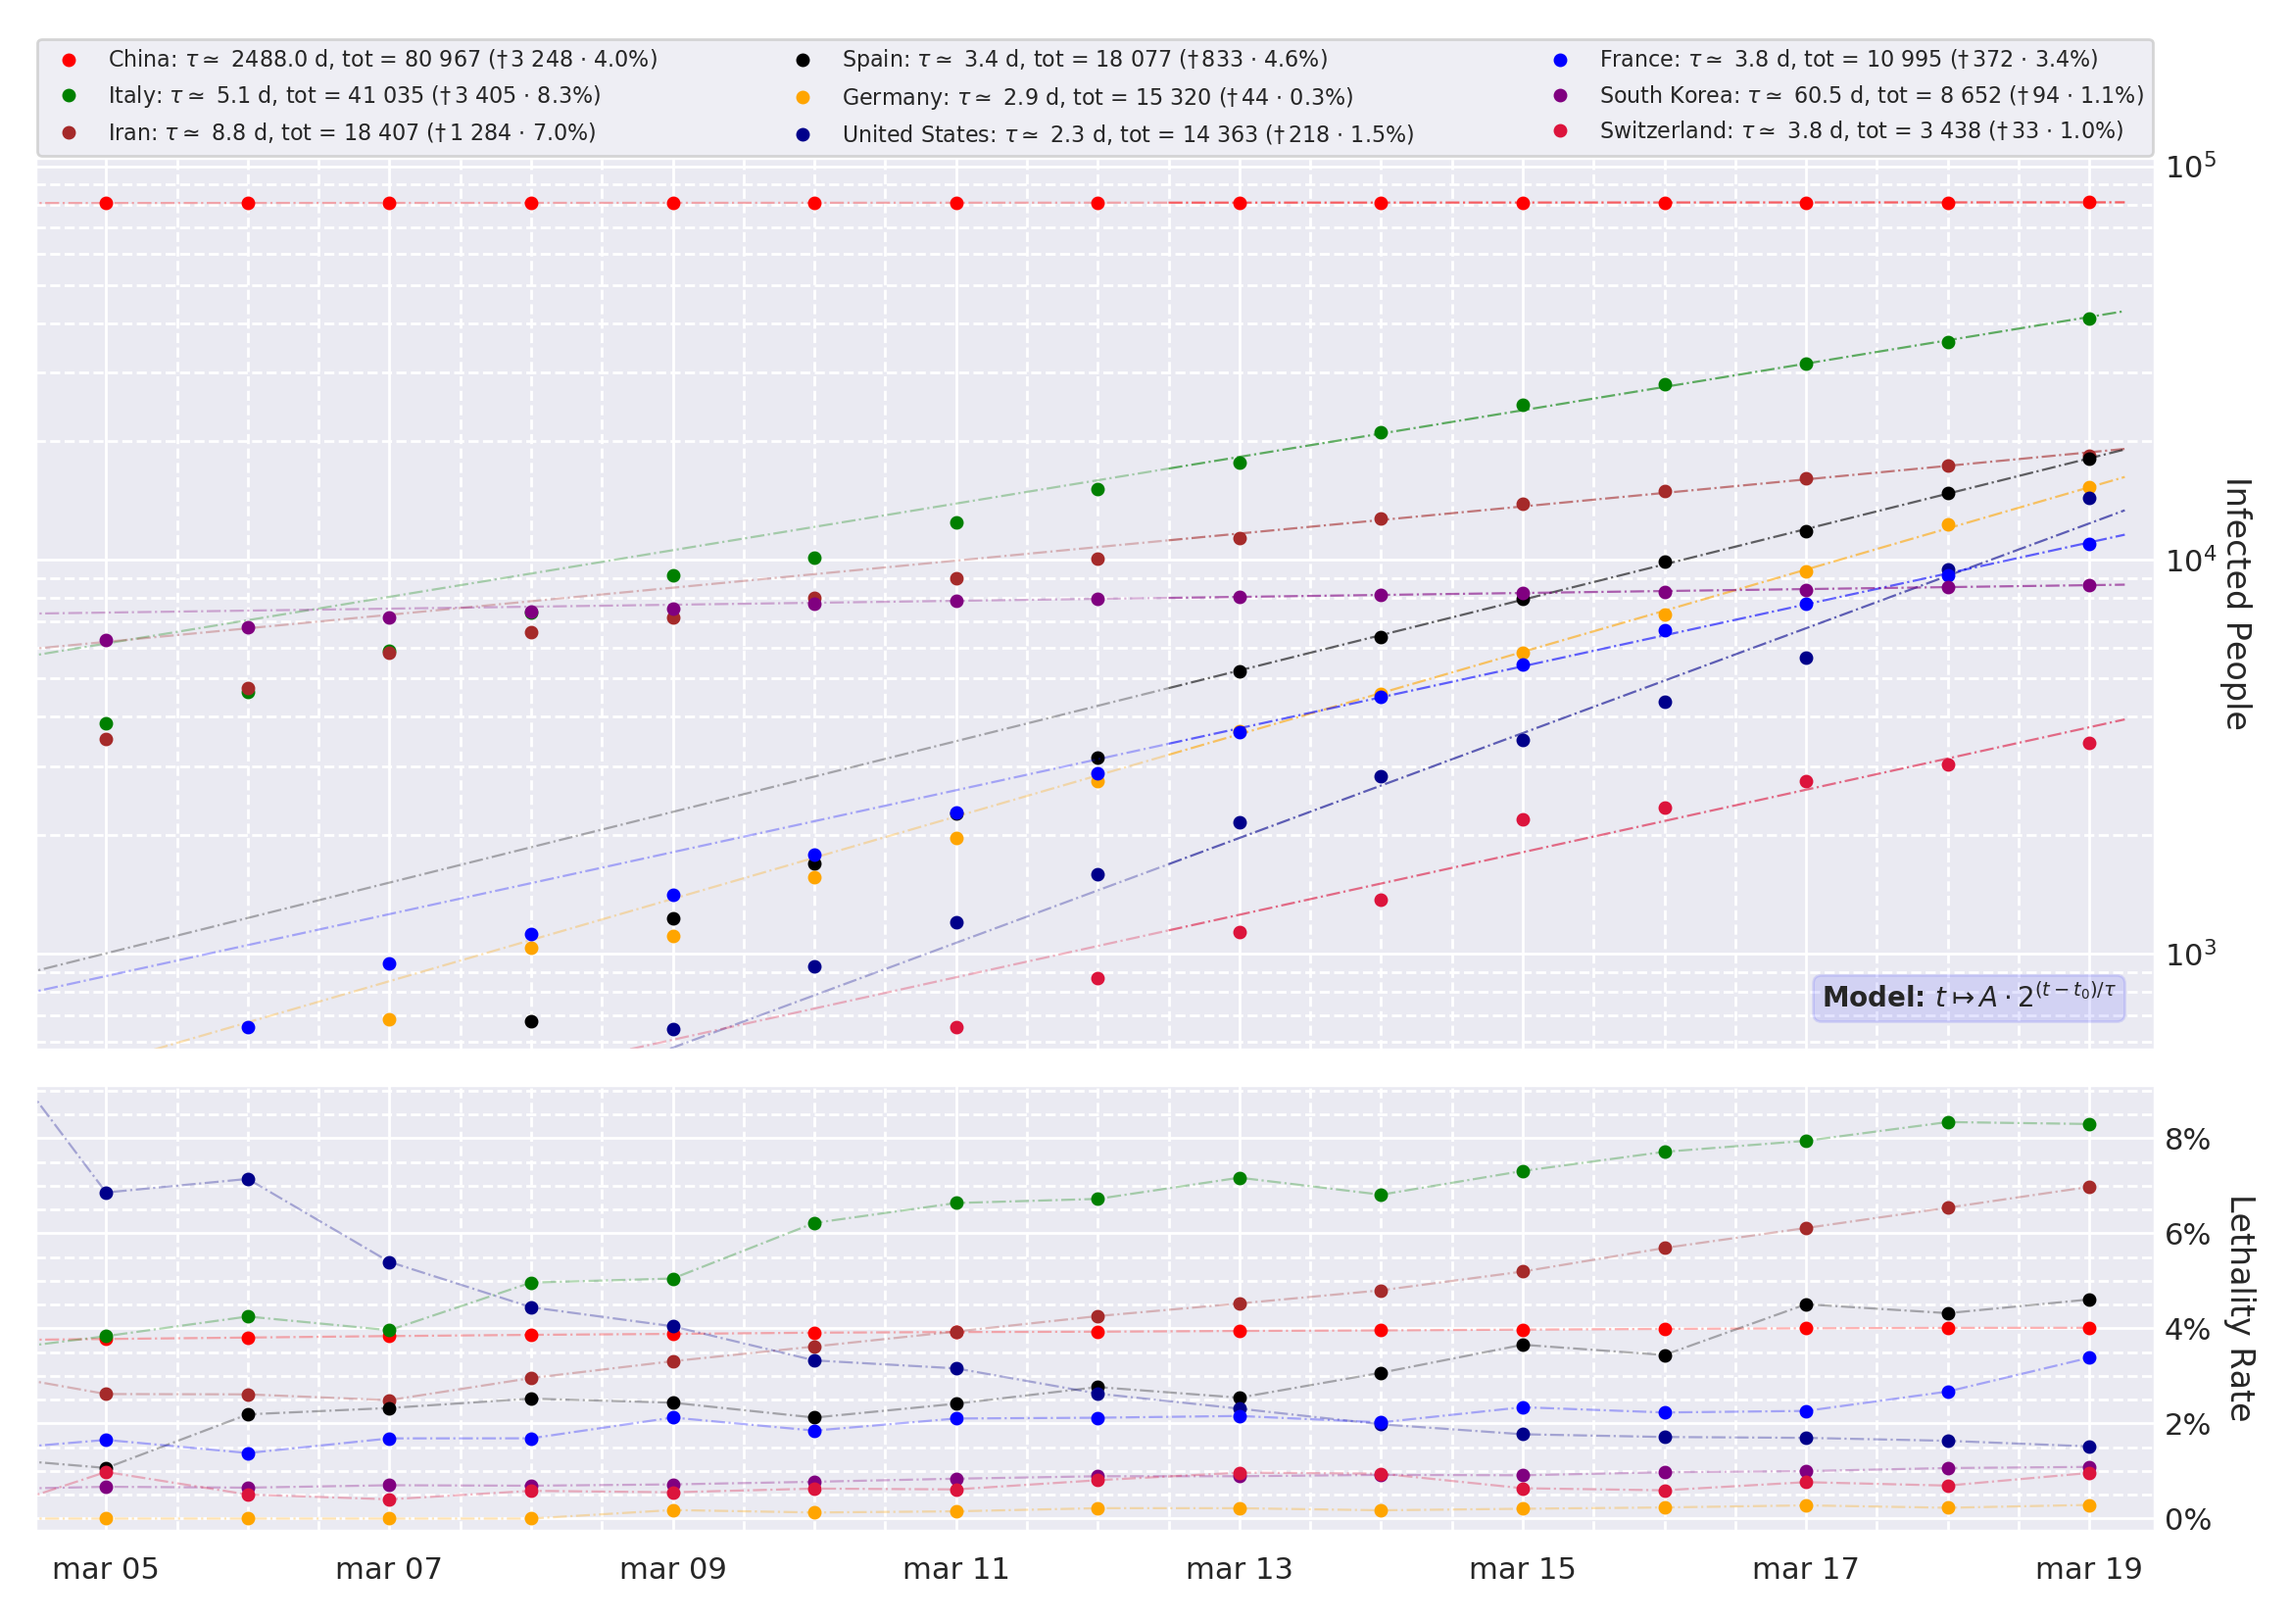
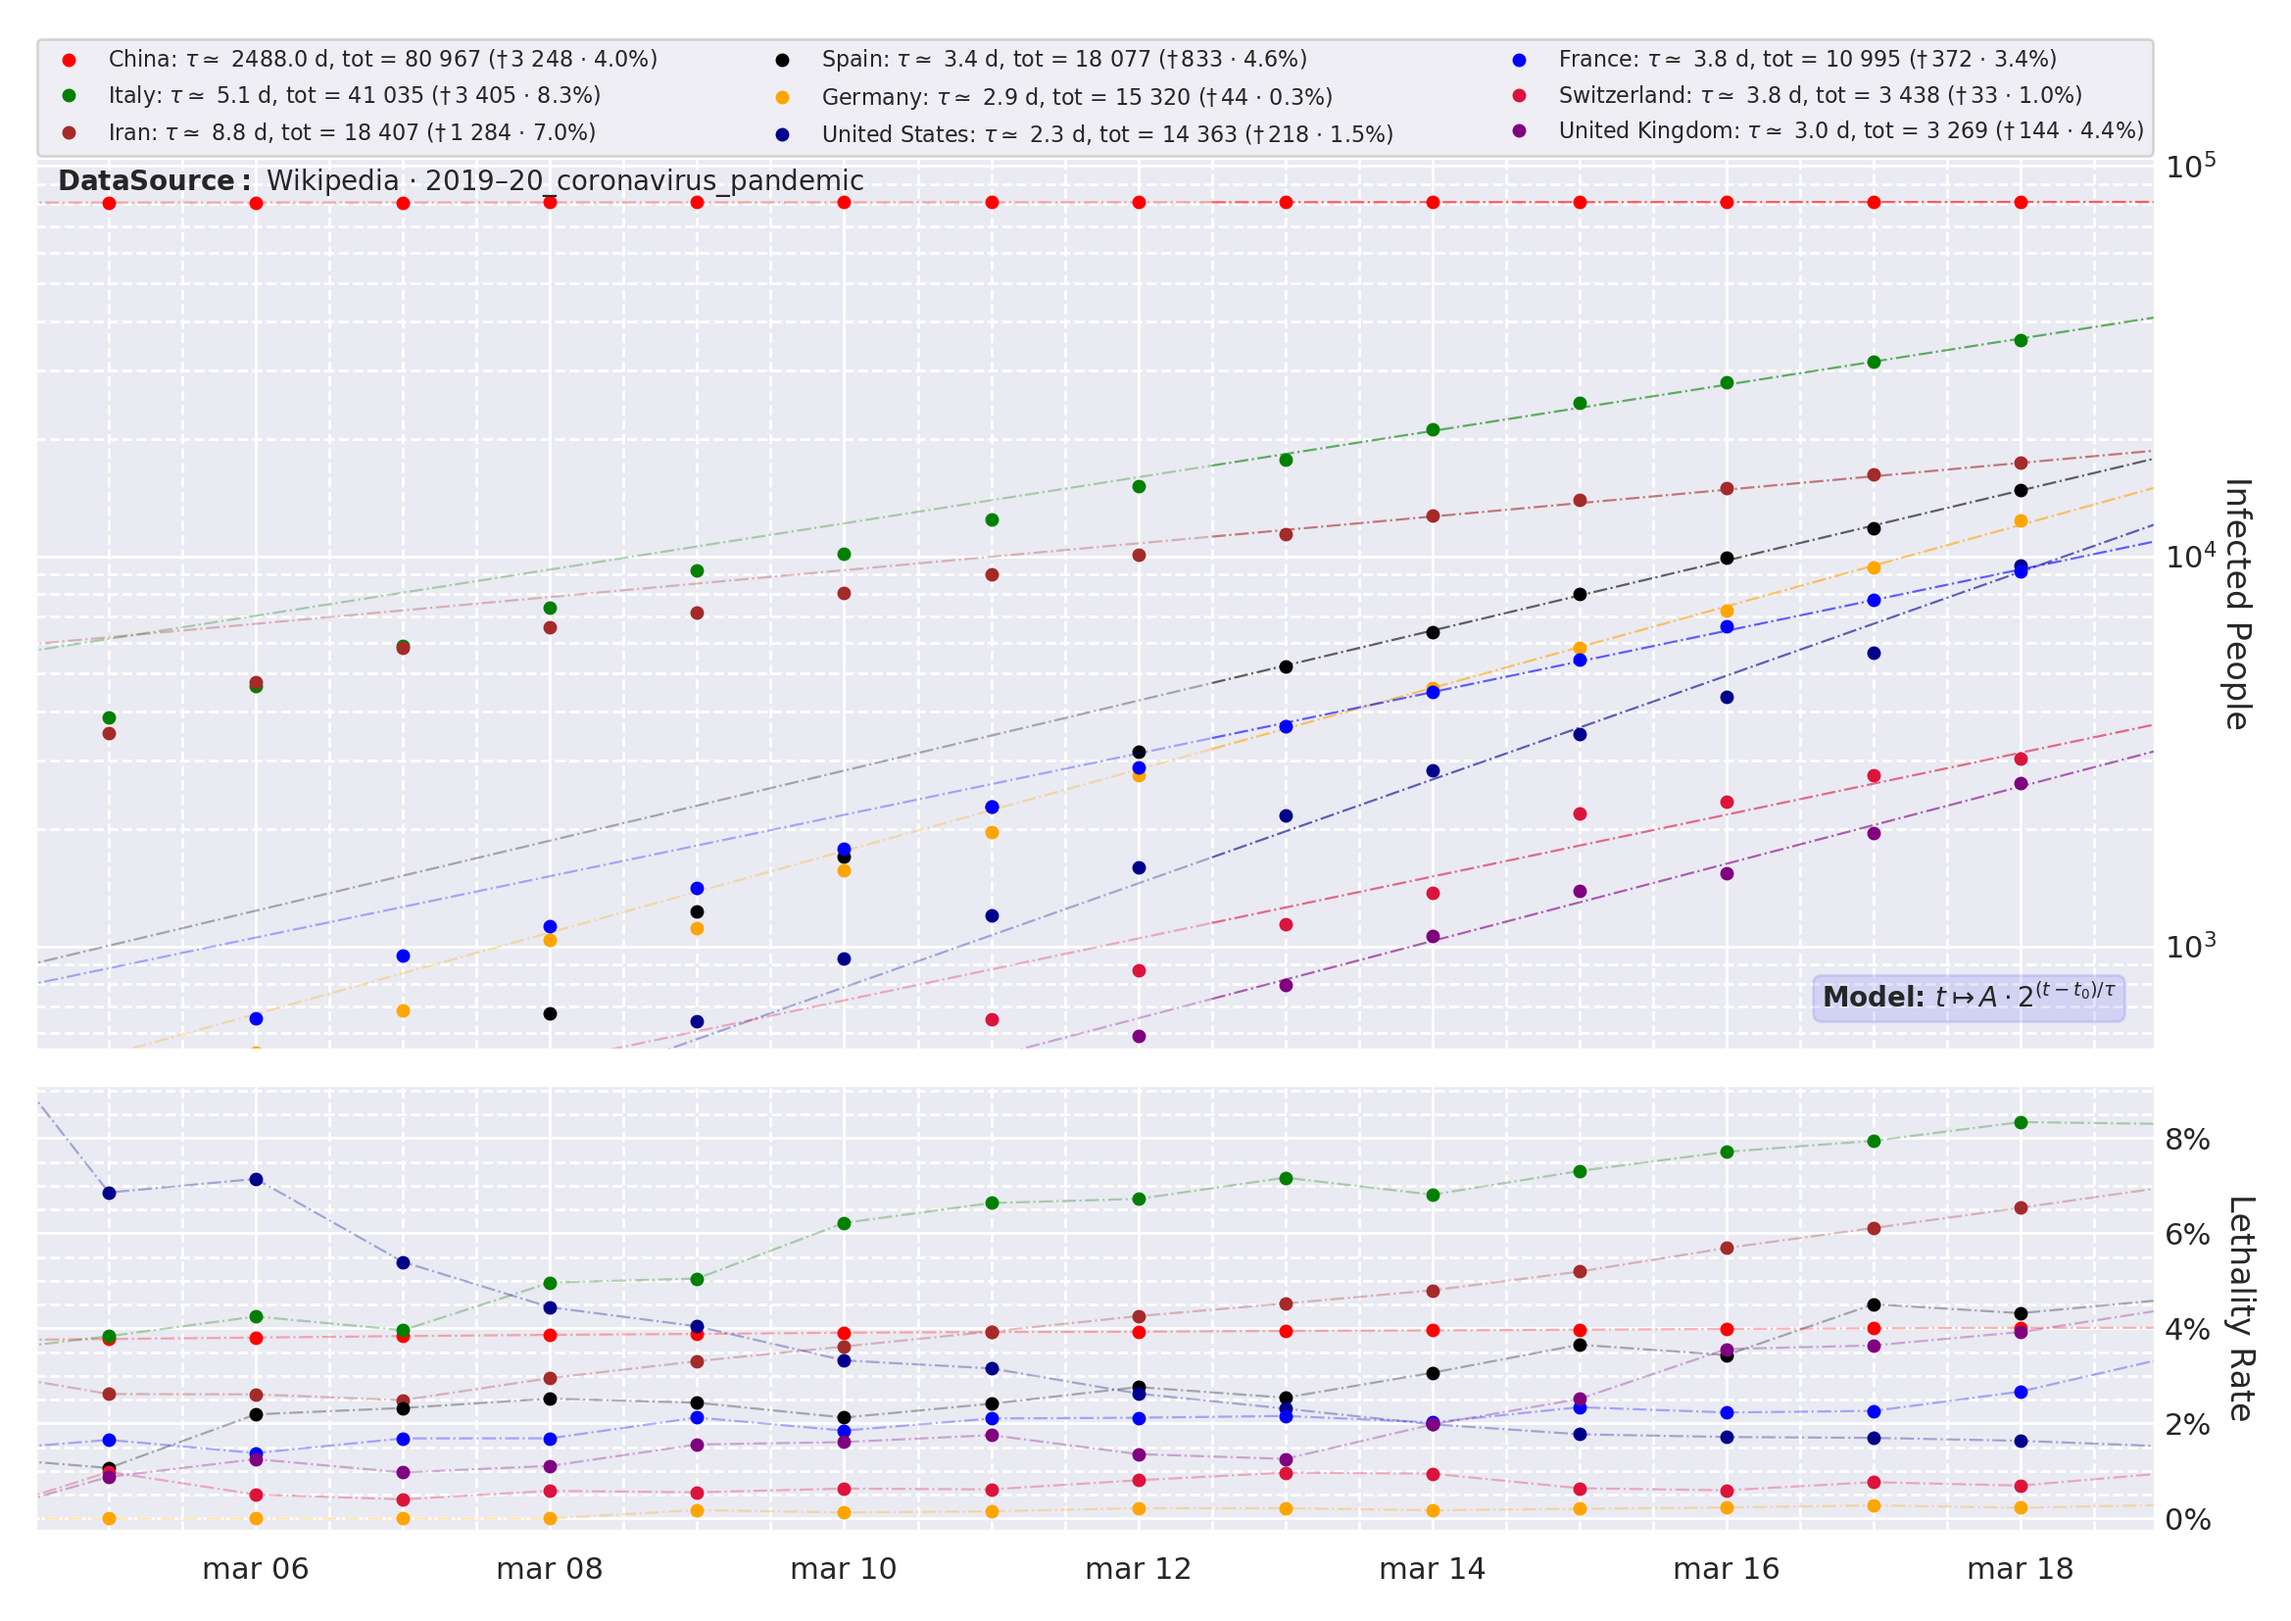
minor commit

diff --git a/Coronavirus/coronavirus.py b/Coronavirus/coronavirus.py
@@ -26,11 +26,11 @@ country_ds = pd.DataFrame(
              "tot_death", "lethality"]
 )
 country_ds["name"] = [
-    "South Korea", "Iran", "Italy", "Germany", "France", "China", "Spain",
+    "United Kingdom", "Iran", "Italy", "Germany", "France", "China", "Spain",
     "Switzerland", "United States"
 ]
 country_ds["filename"] = [
-    "SouthKorea.dat", "Iran.dat", "Italy.dat", "Germany.dat", "France.dat",
+    "UnitedKingdom.dat", "Iran.dat", "Italy.dat", "Germany.dat", "France.dat",
     "China.dat", "Spain.dat", "Switzerland.dat", "UnitedStates.dat"
 ]
 country_ds["date_format"] = [
@@ -104,6 +104,11 @@ for i in country_ds.index:
              color=country_ds["color"].iloc[i], markersize=8)
     ax2.plot(df.index, (100*df["death"]/df["count"]).values, "-.",
              color=country_ds["color"].iloc[i], alpha=0.3, linewidth=0.8)
+
+ax1.text(0.01, 0.99, r"$\bf{Data Source:}$ " +
+                     r"Wikipedia $\cdot$ 2019–20_coronavirus_pandemic",
+         size=10, ha="left", va="top", clip_on=True,
+         transform=ax1.transAxes)
 
 ax1.text(0.982, 0.04, r"Model: $t \mapsto A\cdot 2^{(t-t_0)/\tau}$",
          size=10, ha="right", va="bottom", weight="bold", clip_on=True,
